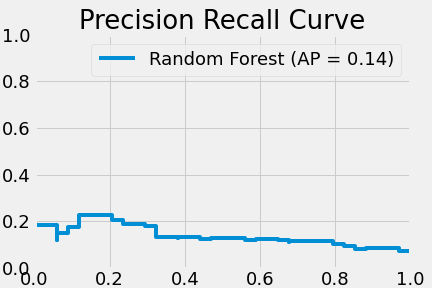
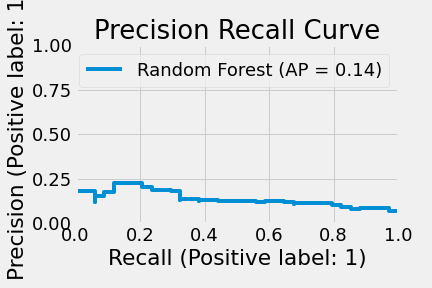
fix figures

Changed region(s): [[0.0, 0.0312, 0.963, 1.0], [0.9028, 0.9375, 0.9931, 1.0], [0.0, 0.0, 0.0602, 0.0312]]

diff --git a/SeismicBumpsRF.py b/SeismicBumpsRF.py
@@ -15,6 +15,9 @@ from sklearn.preprocessing import LabelEncoder
 from collections import Counter
 le = LabelEncoder()
 
+from matplotlib import rcParams
+rcParams.update({'figure.autolayout': True})
+
 # Load pandas
 import pandas as pd
 
@@ -99,6 +102,8 @@ y_train = y_train_under
 
 """
 
+
+
 ### Undersample Majority Class - Near Miss
 """
 from imblearn.under_sampling import NearMiss
@@ -115,6 +120,7 @@ print('After',counter)
 X_train = X_train_under
 y_train = y_train_under
 """
+
 
 
 ### Undersample Majority Class - Nearest Neighbour
